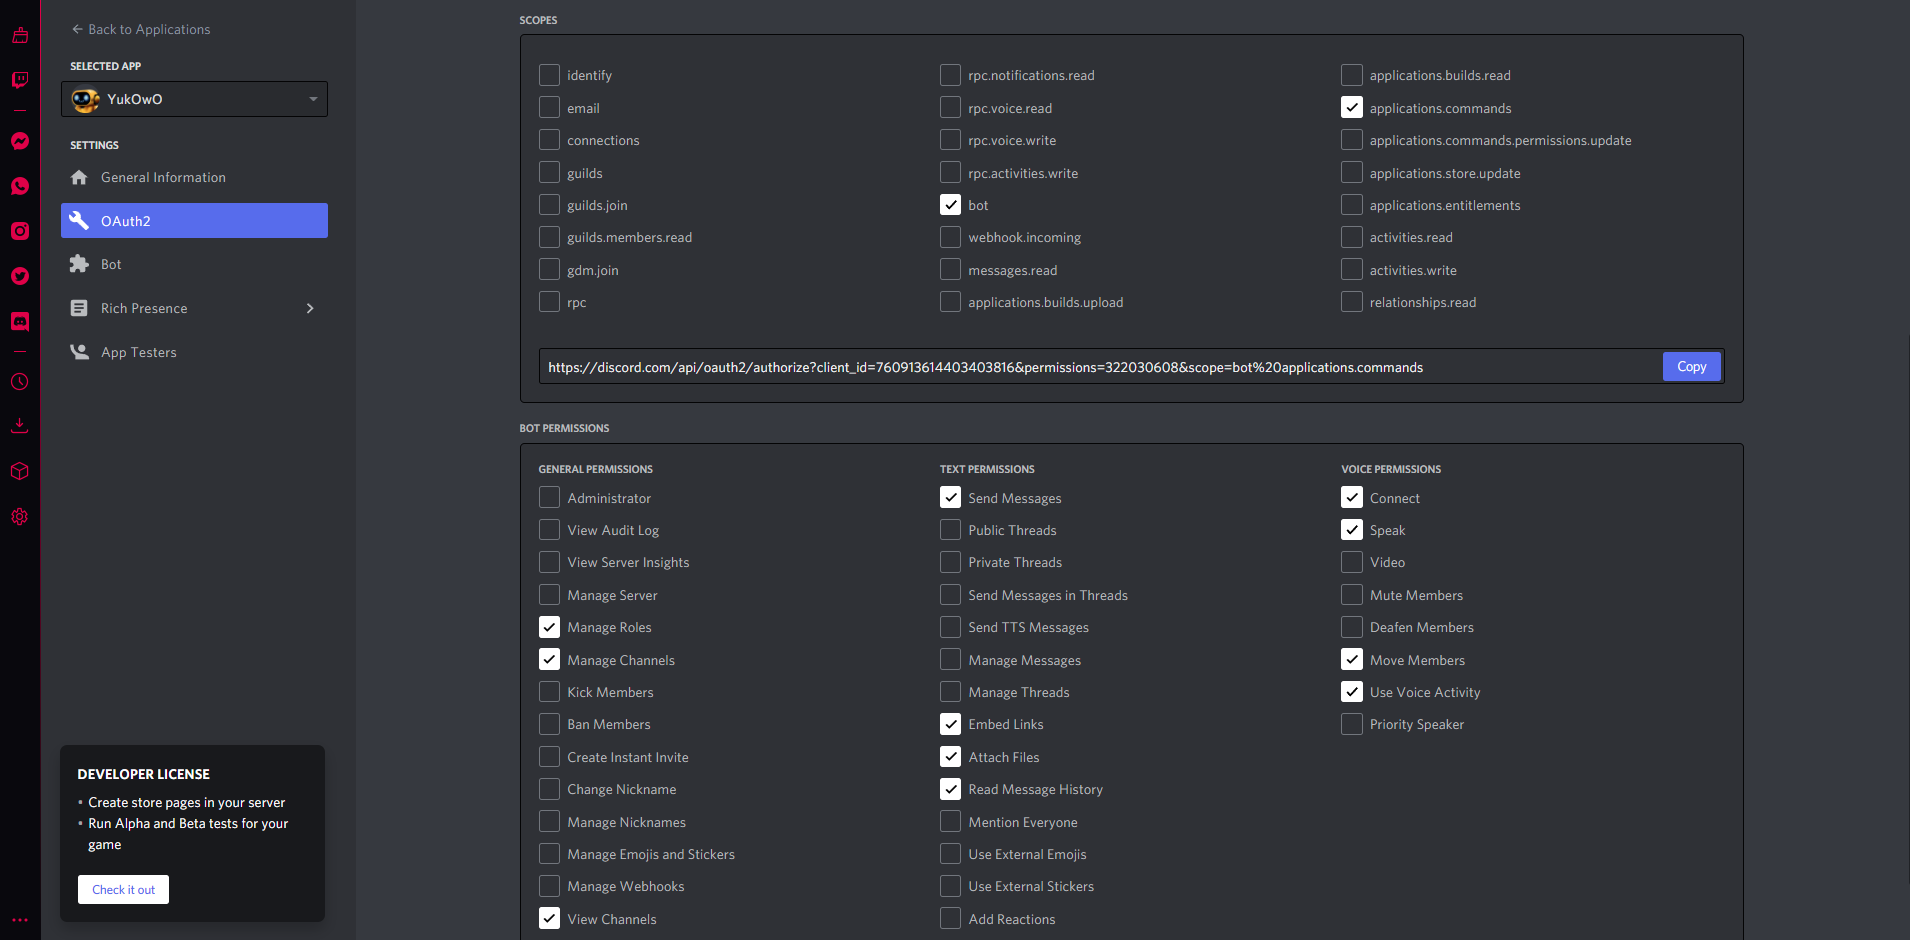
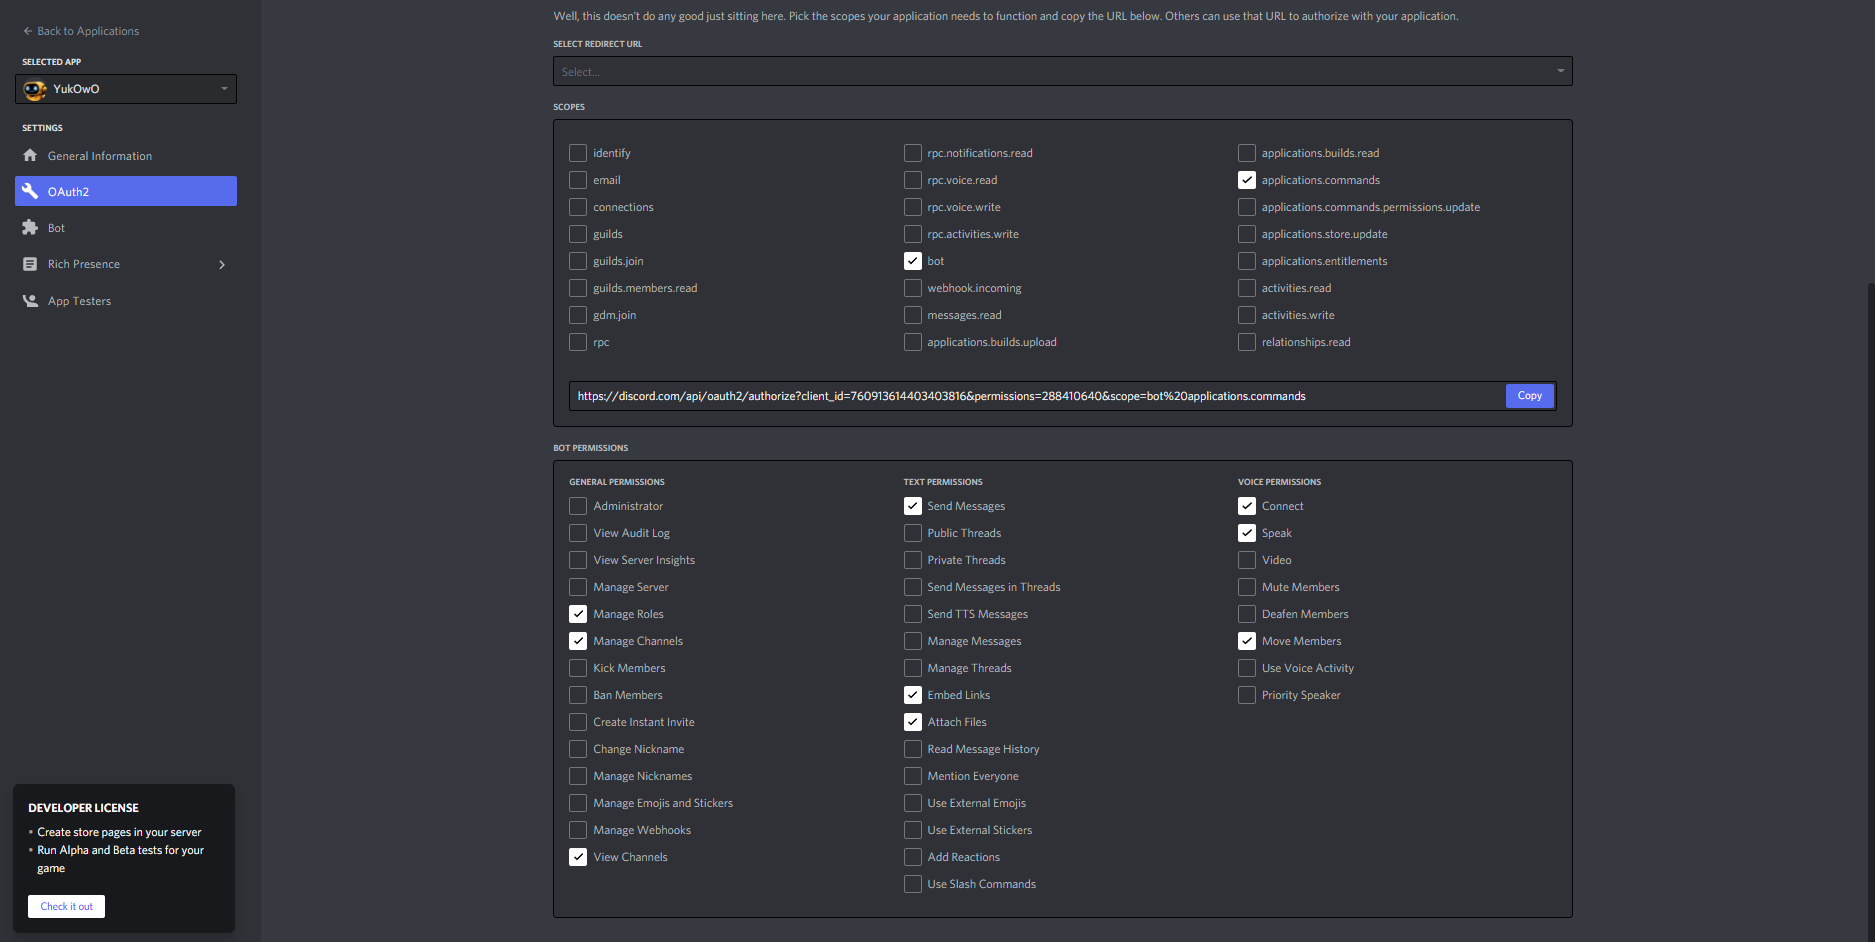
Update Readme.md

diff --git a/README.md b/README.md
@@ -1,21 +1,22 @@
 # Yuko
 
-Yuko is a Discord bot based on JDA (Java Discord API). He works with League Of Legends and can give you precious tips on summoners, champions or the last patch note. Yuko can also sing, and plays YouTube audio on your channel.
+Yuko is a Discord bot based on JDA (Java Discord API). He works with League Of Legends and can give you precious tips on summoners, champions or the last patch note. Yuko can also sing, and plays YouTube audio on your channel. Let's discover what Yuko can do!
 
 ![Summoner](images/summoner.png)
 
-Yuko has been developed first for our private guild, but we decided to put our code public to help people like us, who would like to code their own bot in Java.
+Yuko has been developed first for our private guild, but we decided to push our code public to help people like us, who would like to code their own bot in Java.
 
 ## Features and Slash commands
 Yuko got many features, not only Slash commands. You can find here what Yuko can do.
 
 ### League of Legends
-If Riot Games API key has expired or if you didn't specify it (check **Set up your own Yuko** section), those commands won't be available.
 
 * `/champion <Champion's name>`: Get tips your favorite league champion,
 * `/build <Champion's name>`: Get the recommended build for a league champion,
 * `/summoner <Summoner's name>`: Get some info about a summoner,
 * `/patch`: Get the last patch note.
+
+If Riot Games API key has expired or if you didn't specify it (check **Set up your own Yuko** section), those commands won't be available.
 
 ![Patch](images/patch.png)
 
@@ -23,8 +24,8 @@ You can enable/disable League of Legends commands with the commands `/settings`.
 
 ### Music
 * `/play <YouTube link or title of the YouTube audio>`: Come to your channel and play a YouTube audio,
-* `/player`: Get a player, like a radio,
 * `/volume <Volume value`: Set up the volume, must be a value between 1 and 100,
+* `/player`: Get a player, like a radio,
 * `/pause`: Pause/Resume the audio,
 * `/skip`: Skip the current audio to the next,
 * `/stop`: Stop the audio and clear the queue,
@@ -72,7 +73,7 @@ LavaPlayer is an audio player library for Discord.
 Orianna is the Java adaptation of the Riot Games League of Legends API.
 
 ## Invite Yuko
-To invite Yuko on your guild: https://discord.com/api/oauth2/authorize?client_id=XXX&permissions=322030608&scope=bot%20applications.commands
+Yuko is currently offline because we are testing him, but you can still see the beta version on our guild!
 
 ## Set up your own Yuko
 If you want to build your own Yuko and use our code, you need to follow several steps.
@@ -120,9 +121,9 @@ Your Yuko should be alive, to add him to a guild, go to your application in Disc
 
 If you don't want to give all these permissions to your Yuko, don't worry, you can still select each permission you want to give by managing Yuko's role in the guild's settings.  
 Finally, you can invite your bot in guilds by copying the link just above **OAuth2 scopes**. The link should look like this:  
-https://discord.com/api/oauth2/authorize?client_id=XXX&permissions=322030608&scope=bot%20applications.commands
+https://discord.com/api/oauth2/authorize?client_id=XXX&permissions=288410640&scope=bot%20applications.commands
 
-![Permissions](images/)
+![Permissions](images/permissions.png)
 
 And that's all, just run your build, and you will see your bot appears in your guild!
 
